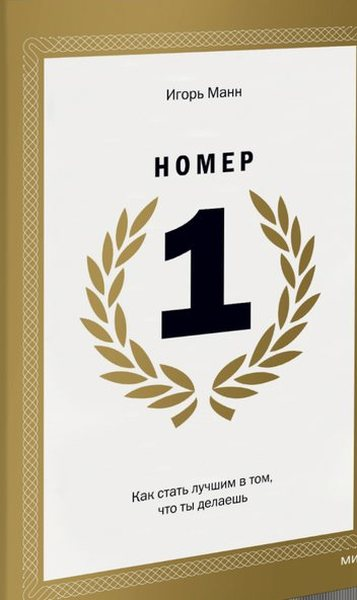
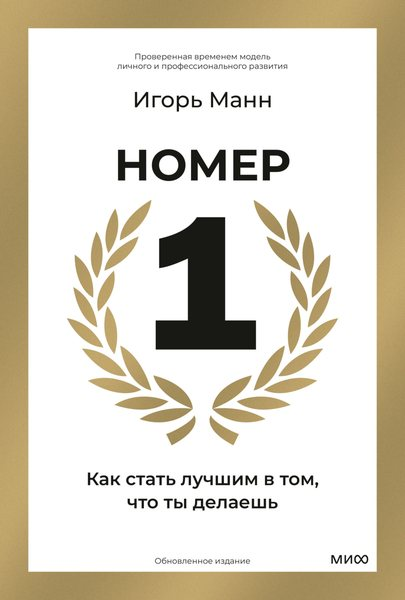
Ровная обложка для «Номер 1»
Claude-Session: https://claude.ai/code/session_016JFU3MJHehXdZSEaKxqgBT

diff --git a/src/books.ts b/src/books.ts
@@ -27,7 +27,7 @@ export const books: Book[] = [
     author: "Игорь Манн",
     initials: "ИМ",
     cover: "number-one.jpg",
-    ratio: 357 / 600,
+    ratio: 405 / 600,
     color: "#a3863f",
     ink: "#fbf7ec",
     url: "https://www.mann-ivanov-ferber.ru/catalog/product/nomer_odin/",
